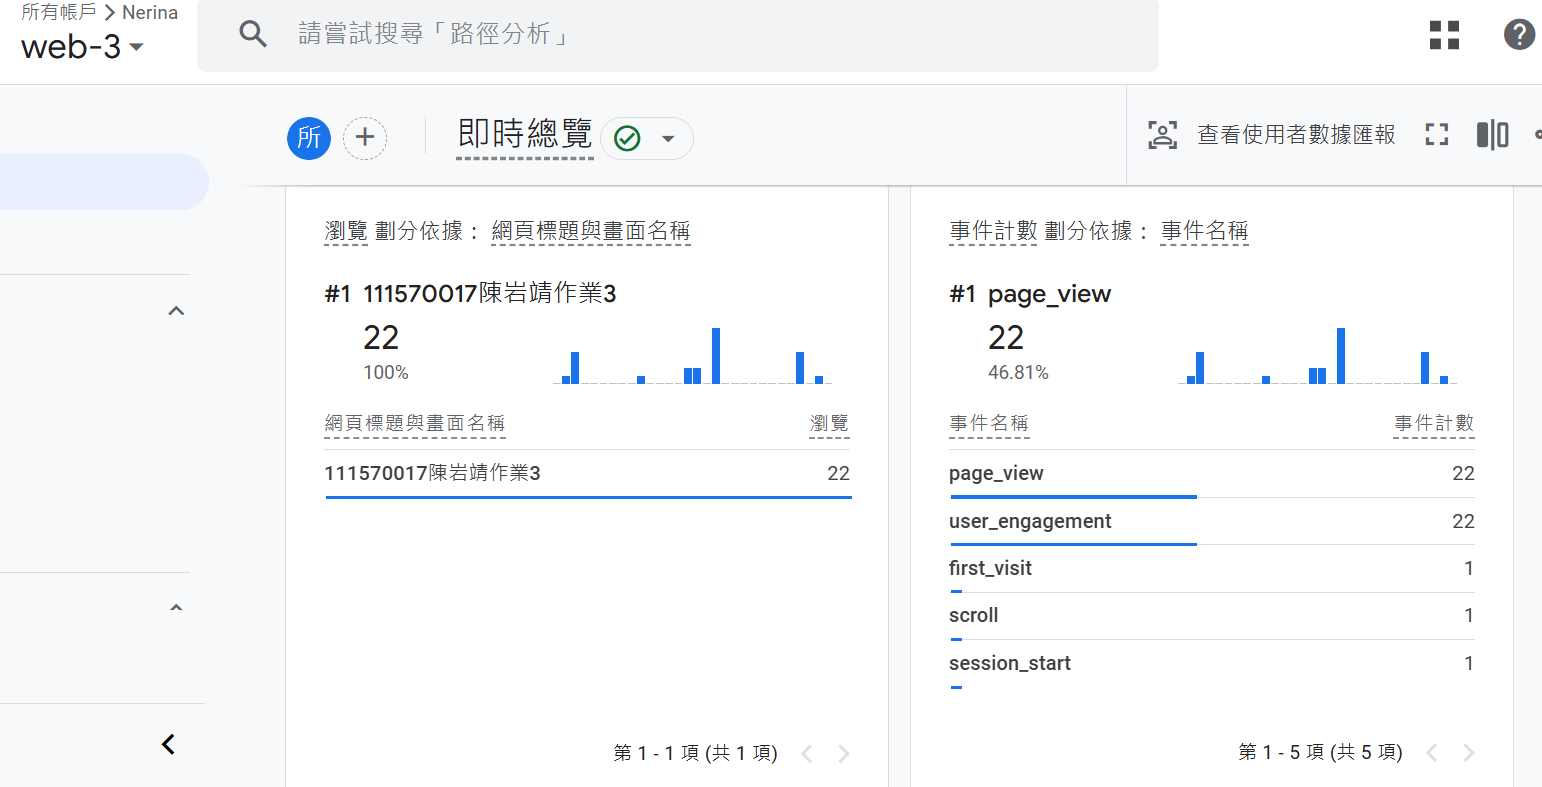
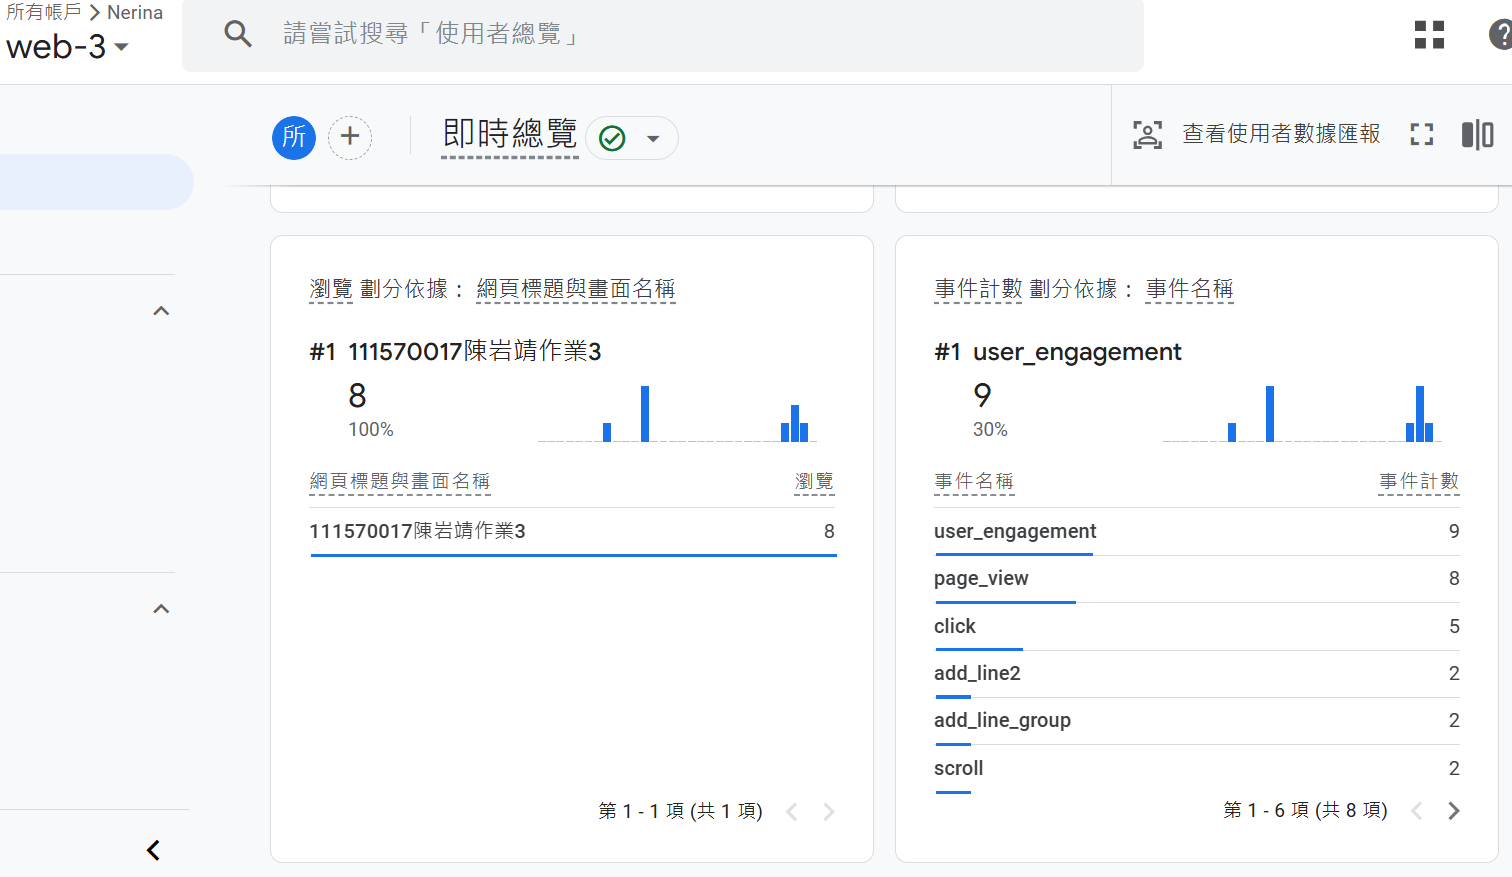
Add files via upload

diff --git a/a6.html b/a6.html
@@ -72,6 +72,11 @@ Released: 4.3.13
             <h3>first_visit(首次造訪)：它可以反映網站新增的客戶數量</h3>
             <h3>page_view(觀看次數)</h3>
             <h3>session_start(拜訪開始)：每次使用者訪問網站時自動觸發這個事件，標誌著一次新的訪問開始。如果使用者在30分鐘內沒進行操作GA會自動認為這次會話結束。這個事件可以追蹤總訪問量</h3>
+            <h3>自訂事件：add_line_group / add_line2</h3>
+        </p>
+        <p>
+            <img src="images/GA-3.png">
+            <h3>圖3：重要事件轉換add_line2</h3>
         </p>
         <hr style="height: 5px; background-color: black; border: none;">
         <p>

diff --git a/index.html b/index.html
@@ -9,7 +9,6 @@ Version: 1.0
 Released: 4.3.13
 -->
 <html>
-
 <head>
 <meta charset="utf-8">
 <meta name="viewport" content="width=device-width, initial-scale=1.0">
@@ -22,14 +21,15 @@ Released: 4.3.13
 <link href="css/styles.css" rel="stylesheet" type="text/css">
 
 <!-- Google tag (gtag.js) -->
-<script async src="https://www.googletagmanager.com/gtag/js?id=G-HLCKVQVBW9"></script>
+<script async src="https://www.googletagmanager.com/gtag/js?id=G-XJZ478DNS2"></script>
 <script>
   window.dataLayer = window.dataLayer || [];
   function gtag(){dataLayer.push(arguments);}
   gtag('js', new Date());
 
-  gtag('config', 'G-HLCKVQVBW9');
+  gtag('config', 'G-XJZ478DNS2');
 </script>
+
 </head>
 <body>
 <header>

diff --git a/a2.html b/a2.html
@@ -8,9 +8,7 @@ Template number: 15
 Version: 1.0
 Released: 4.3.13
 -->
-<html>	
-
-	
+<html>
 <head>
 <meta charset="utf-8">
 <meta name="viewport" content="width=device-width, initial-scale=1.0">
@@ -63,15 +61,15 @@ Released: 4.3.13
 </script>
 
 <!-- Google tag (gtag.js) -->
-<script async src="https://www.googletagmanager.com/gtag/js?id=G-HLCKVQVBW9"></script>
+<script async src="https://www.googletagmanager.com/gtag/js?id=G-XJZ478DNS2"></script>
 <script>
   window.dataLayer = window.dataLayer || [];
   function gtag(){dataLayer.push(arguments);}
   gtag('js', new Date());
 
-  gtag('config', 'G-HLCKVQVBW9');
+  gtag('config', 'G-XJZ478DNS2');
 </script>
-	
+
 </head>
 <body>
 <header>

diff --git a/a1.html b/a1.html
@@ -9,7 +9,6 @@ Version: 1.0
 Released: 4.3.13
 -->
 <html>
-	
 <head>
 <meta charset="utf-8">
 <meta name="viewport" content="width=device-width, initial-scale=1.0">
@@ -46,13 +45,13 @@ Released: 4.3.13
 </style>
 
 <!-- Google tag (gtag.js) -->
-<script async src="https://www.googletagmanager.com/gtag/js?id=G-HLCKVQVBW9"></script>
+<script async src="https://www.googletagmanager.com/gtag/js?id=G-XJZ478DNS2"></script>
 <script>
   window.dataLayer = window.dataLayer || [];
   function gtag(){dataLayer.push(arguments);}
   gtag('js', new Date());
 
-  gtag('config', 'G-HLCKVQVBW9');
+  gtag('config', 'G-XJZ478DNS2');
 </script>
 
 </head>

diff --git a/a4.html b/a4.html
@@ -8,8 +8,6 @@ Template number: 15
 Version: 1.0
 Released: 4.3.13
 -->
-
-
 <html>
 <head>
 <meta charset="utf-8">
@@ -44,15 +42,15 @@ Released: 4.3.13
 </script>
 
 <!-- Google tag (gtag.js) -->
-<script async src="https://www.googletagmanager.com/gtag/js?id=G-HLCKVQVBW9"></script>
+<script async src="https://www.googletagmanager.com/gtag/js?id=G-XJZ478DNS2"></script>
 <script>
   window.dataLayer = window.dataLayer || [];
   function gtag(){dataLayer.push(arguments);}
   gtag('js', new Date());
 
-  gtag('config', 'G-HLCKVQVBW9');
+  gtag('config', 'G-XJZ478DNS2');
 </script>
-	
+
 </head>
 <body>
 <header>
